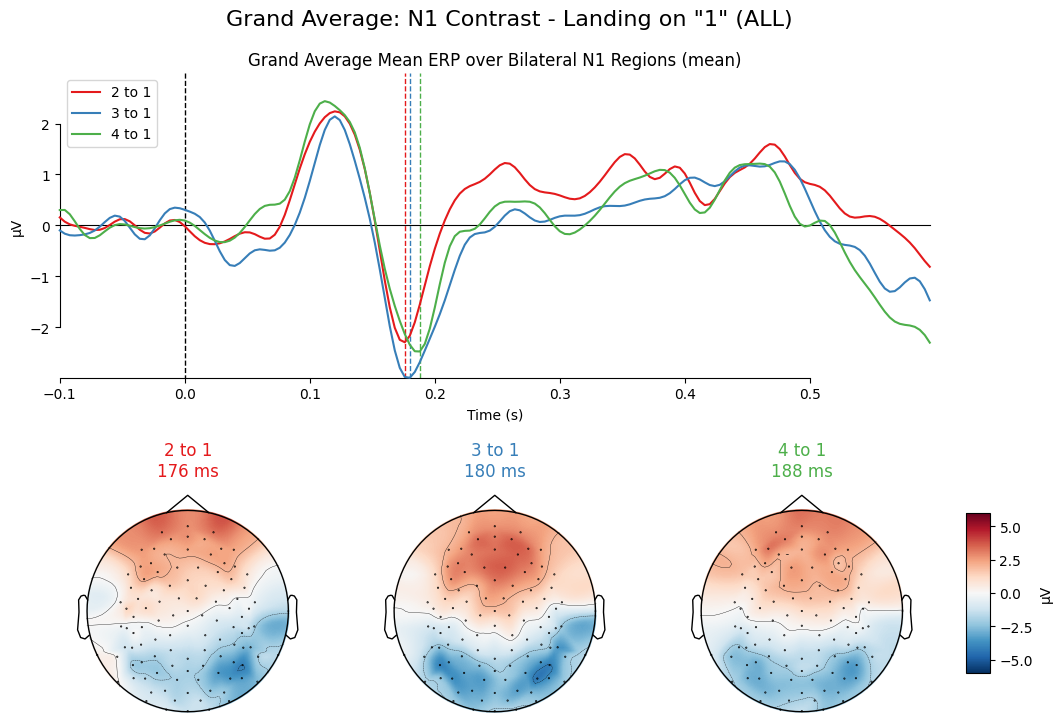
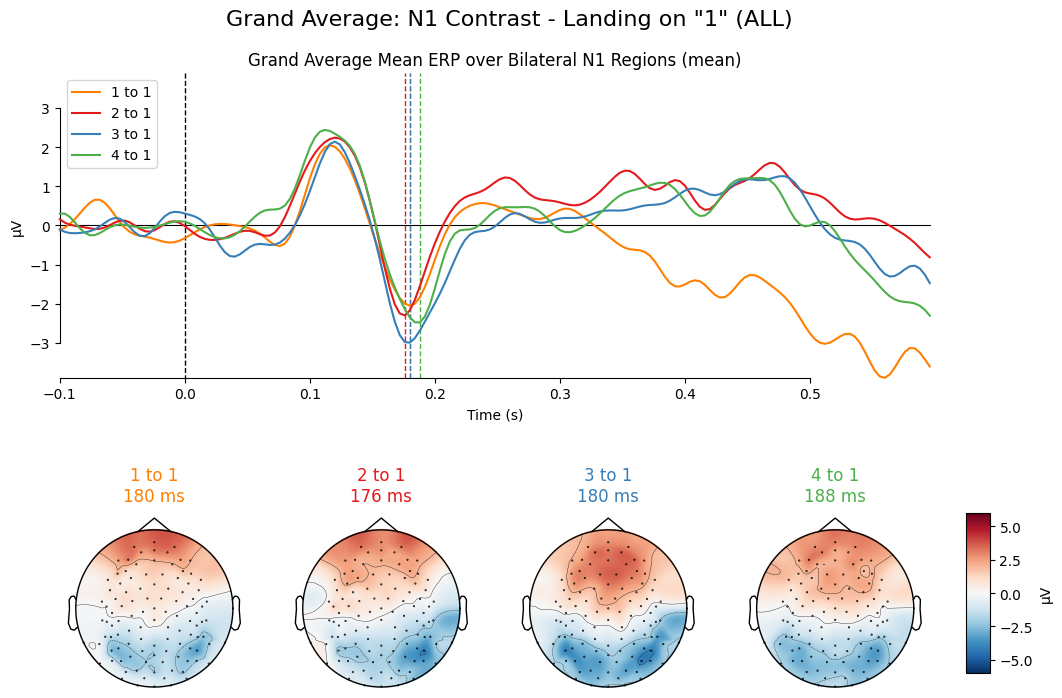
Update contrast plots for 'all' condition with '1 to 1' data

diff --git a/eeg_all/code/03_generate_n1_plot_landing_on_1_contrast_all.py b/eeg_all/code/03_generate_n1_plot_landing_on_1_contrast_all.py
@@ -9,11 +9,12 @@ import numpy as np
 
 # --- 1. CONFIGURATION ---
 # Base conditions to load
-BASE_CONDITIONS = ['21', '31', '41']
+BASE_CONDITIONS = ['11', '21', '31', '41']
 
 # How to combine base conditions into key conditions
 # In this case, each base condition is also a key condition
 KEY_CONDITIONS_MAP = {
+    "1 to 1": ["11"],
     "2 to 1": ["21"],
     "3 to 1": ["31"],
     "4 to 1": ["41"],
@@ -21,6 +22,7 @@ KEY_CONDITIONS_MAP = {
 
 # Define colors for plots
 CONDITION_COLORS = {
+    "1 to 1": '#ff7f00',  # Orange
     "2 to 1": '#e41a1c',  # Red
     "3 to 1": '#377eb8',  # Blue
     "4 to 1": '#4daf4a',  # Green

diff --git a/eeg_all/code/03_generate_p1_plot_landing_on_1_contrast_all.py b/eeg_all/code/03_generate_p1_plot_landing_on_1_contrast_all.py
@@ -9,10 +9,11 @@ import numpy as np
 
 # --- 1. CONFIGURATION ---
 # Base conditions to load
-BASE_CONDITIONS = ['21', '31', '41']
+BASE_CONDITIONS = ['11', '21', '31', '41']
 
 # How to combine base conditions into key conditions
 KEY_CONDITIONS_MAP = {
+    "1 to 1": ["11"],
     "2 to 1": ["21"],
     "3 to 1": ["31"],
     "4 to 1": ["41"],
@@ -20,6 +21,7 @@ KEY_CONDITIONS_MAP = {
 
 # Define colors for plots
 CONDITION_COLORS = {
+    "1 to 1": '#ff7f00',  # Orange
     "2 to 1": '#e41a1c',  # Red
     "3 to 1": '#377eb8',  # Blue
     "4 to 1": '#4daf4a',  # Green
